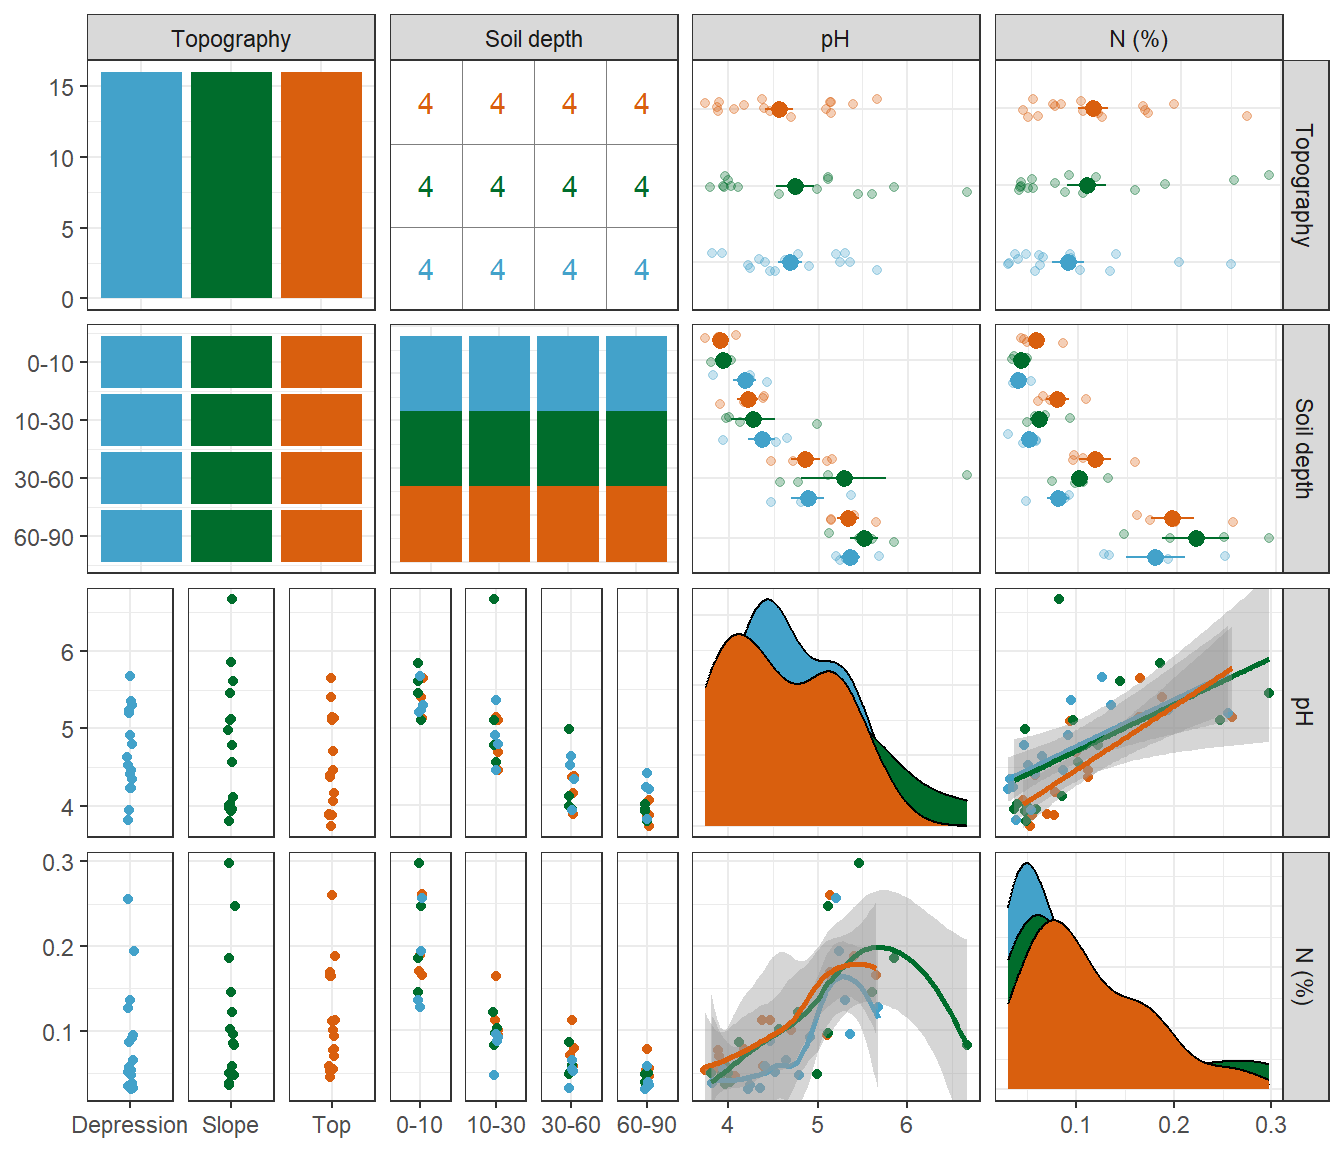
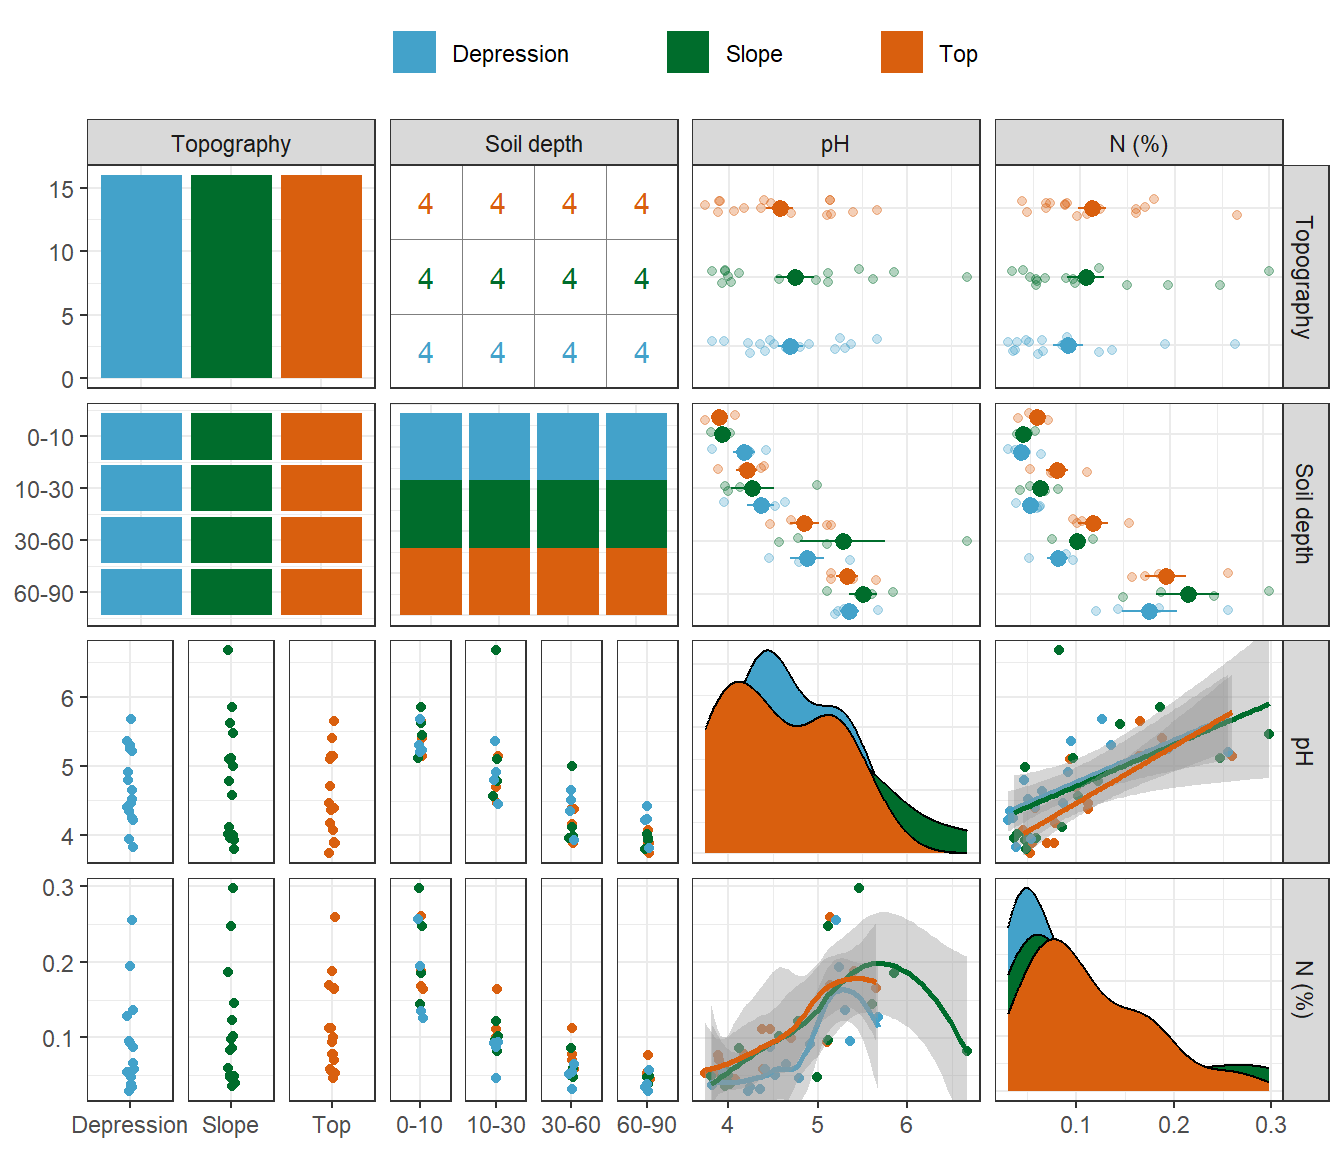
u

diff --git a/_posts/2026-02-17-post-43-pair-them-upcreating-scatterplot-and-correlation-matrices-in-ggplots/post-43-pair-them-upcreating-scatterplot-and-correlation-matrices-in-ggplots.html b/_posts/2026-02-17-post-43-pair-them-upcreating-scatterplot-and-correlation-matrices-in-ggplots/post-43-pair-them-upcreating-scatterplot-and-correlation-matrices-in-ggplots.html
@@ -1691,7 +1691,7 @@ div.l-body img {
 </div>
 <p><img src="post-43-pair-them-upcreating-scatterplot-and-correlation-matrices-in-ggplots_files/figure-html5/unnamed-chunk-2-1.png" alt="" width="85%" height="80%" style="display: block; margin: auto;" /></p>
 </div>
-<p>custom functions</p>
+<p>Besides the built-in plot options, we can also create our own custom functions for the plots! The custom functions should follow the structure <code>function(data, mapping, ...) { }</code> and return a ggplot. For example, we can create a plot function for the continuous-categorical variable combination that shows the means and the SEs as well as the jittered points in the background. We can then pass this function to the list.</p>
 <div class="layout-chunk" data-layout="l-body">
 <div class="sourceCode">
 <pre class="sourceCode r"><code class="sourceCode r"><span><span class='co'>### Create a custom function for plotting continuous vs. categorical variables</span></span>
@@ -1704,15 +1704,19 @@ div.l-body img {
 <span><span class='co'>### Change plot type using the custom function</span></span>
 <span><span class='fu'><a href='https://ggobi.github.io/ggally/reference/ggpairs.html'>ggpairs</a></span><span class='op'>(</span><span class='va'>Soils_subset</span>, <span class='fu'><a href='https://ggplot2.tidyverse.org/reference/aes.html'>aes</a></span><span class='op'>(</span>color <span class='op'>=</span> <span class='va'>Contour</span><span class='op'>)</span>,</span>
 <span>        columnLabels <span class='op'>=</span> <span class='fu'><a href='https://rdrr.io/r/base/c.html'>c</a></span><span class='op'>(</span><span class='st'>"Topography"</span>, <span class='st'>"Soil depth"</span>, <span class='st'>"pH"</span>, <span class='st'>"N (%)"</span><span class='op'>)</span>,</span>
+<span>        legend <span class='op'>=</span> <span class='fl'>1</span>,  <span class='co'># create a legend based on plot #1</span></span>
 <span>        upper <span class='op'>=</span> <span class='fu'><a href='https://rdrr.io/r/base/list.html'>list</a></span><span class='op'>(</span>continuous <span class='op'>=</span> <span class='st'>"smooth_lm"</span>,</span>
-<span>                     combo <span class='op'>=</span> <span class='va'>pointrange_fun</span>,  <span class='co'># use the custom function for plotting continuous vs. categorical variables</span></span>
+<span>                     combo <span class='op'>=</span> <span class='va'>pointrange_fun</span>,  <span class='co'># use the custom function "pointrange_fun" for plotting continuous vs. categorical variables</span></span>
 <span>                     discrete <span class='op'>=</span> <span class='st'>"crosstable"</span><span class='op'>)</span>,</span>
 <span>        lower <span class='op'>=</span> <span class='fu'><a href='https://rdrr.io/r/base/list.html'>list</a></span><span class='op'>(</span>continuous <span class='op'>=</span> <span class='st'>"smooth_loess"</span>,</span>
 <span>                     combo <span class='op'>=</span> <span class='fu'><a href='https://ggobi.github.io/ggally/reference/wrap.html'>wrap</a></span><span class='op'>(</span><span class='st'>"dot"</span>, width <span class='op'>=</span> <span class='fl'>0.05</span><span class='op'>)</span>,</span>
 <span>                     discrete <span class='op'>=</span> <span class='st'>"count"</span><span class='op'>)</span><span class='op'>)</span> <span class='op'>+</span> </span>
 <span>  <span class='fu'><a href='https://ggplot2.tidyverse.org/reference/scale_manual.html'>scale_color_manual</a></span><span class='op'>(</span>values <span class='op'>=</span> <span class='fu'><a href='https://rdrr.io/r/base/c.html'>c</a></span><span class='op'>(</span><span class='st'>"#43a2ca"</span>, <span class='st'>"#006d2c"</span>, <span class='st'>"#d95f0e"</span><span class='op'>)</span><span class='op'>)</span> <span class='op'>+</span> </span>
 <span>  <span class='fu'><a href='https://ggplot2.tidyverse.org/reference/scale_manual.html'>scale_fill_manual</a></span><span class='op'>(</span>values <span class='op'>=</span> <span class='fu'><a href='https://rdrr.io/r/base/c.html'>c</a></span><span class='op'>(</span><span class='st'>"#43a2ca"</span>, <span class='st'>"#006d2c"</span>, <span class='st'>"#d95f0e"</span><span class='op'>)</span><span class='op'>)</span> <span class='op'>+</span></span>
-<span>  <span class='fu'><a href='https://ggplot2.tidyverse.org/reference/ggtheme.html'>theme_bw</a></span><span class='op'>(</span><span class='op'>)</span></span></code></pre>
+<span>  <span class='fu'><a href='https://ggplot2.tidyverse.org/reference/ggtheme.html'>theme_bw</a></span><span class='op'>(</span><span class='op'>)</span> <span class='op'>+</span> </span>
+<span>  <span class='fu'><a href='https://ggplot2.tidyverse.org/reference/theme.html'>theme</a></span><span class='op'>(</span>legend.position <span class='op'>=</span> <span class='st'>"top"</span>,</span>
+<span>        legend.key.spacing.x <span class='op'>=</span> <span class='fu'><a href='https://rdrr.io/r/grid/unit.html'>unit</a></span><span class='op'>(</span><span class='fl'>0.5</span>, <span class='st'>"in"</span><span class='op'>)</span>,</span>
+<span>        legend.title <span class='op'>=</span> <span class='fu'><a href='https://ggplot2.tidyverse.org/reference/element.html'>element_blank</a></span><span class='op'>(</span><span class='op'>)</span><span class='op'>)</span></span></code></pre>
 </div>
 <p><img src="post-43-pair-them-upcreating-scatterplot-and-correlation-matrices-in-ggplots_files/figure-html5/unnamed-chunk-3-1.png" alt="" width="85%" height="80%" style="display: block; margin: auto;" /></p>
 </div>
